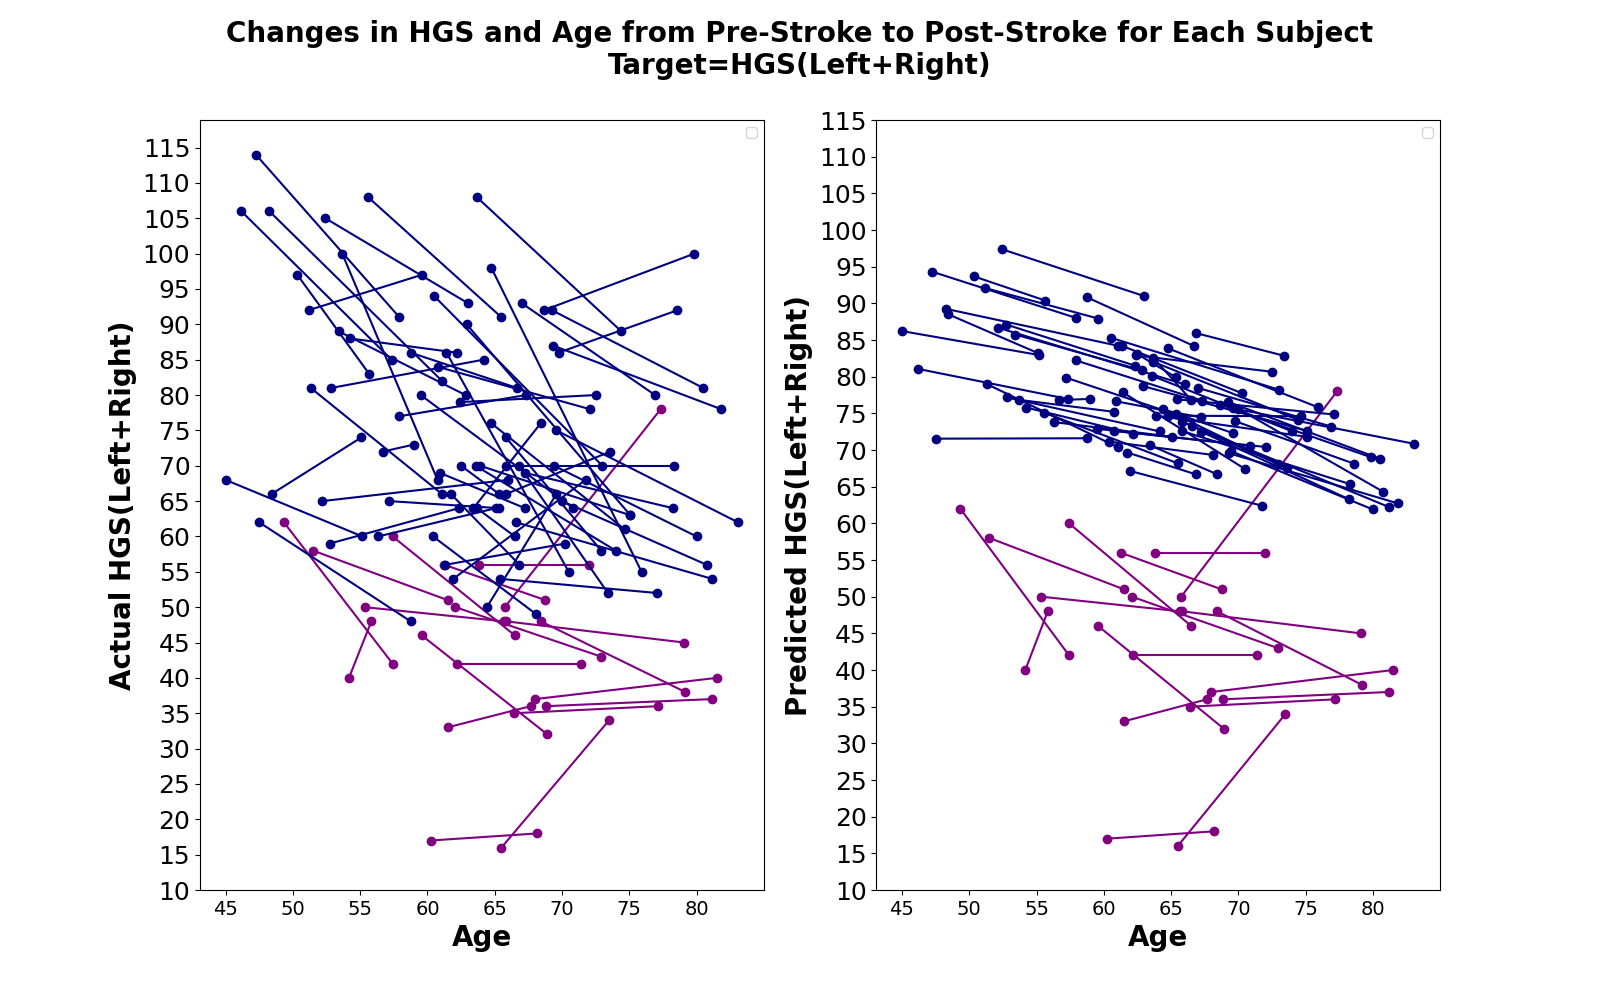
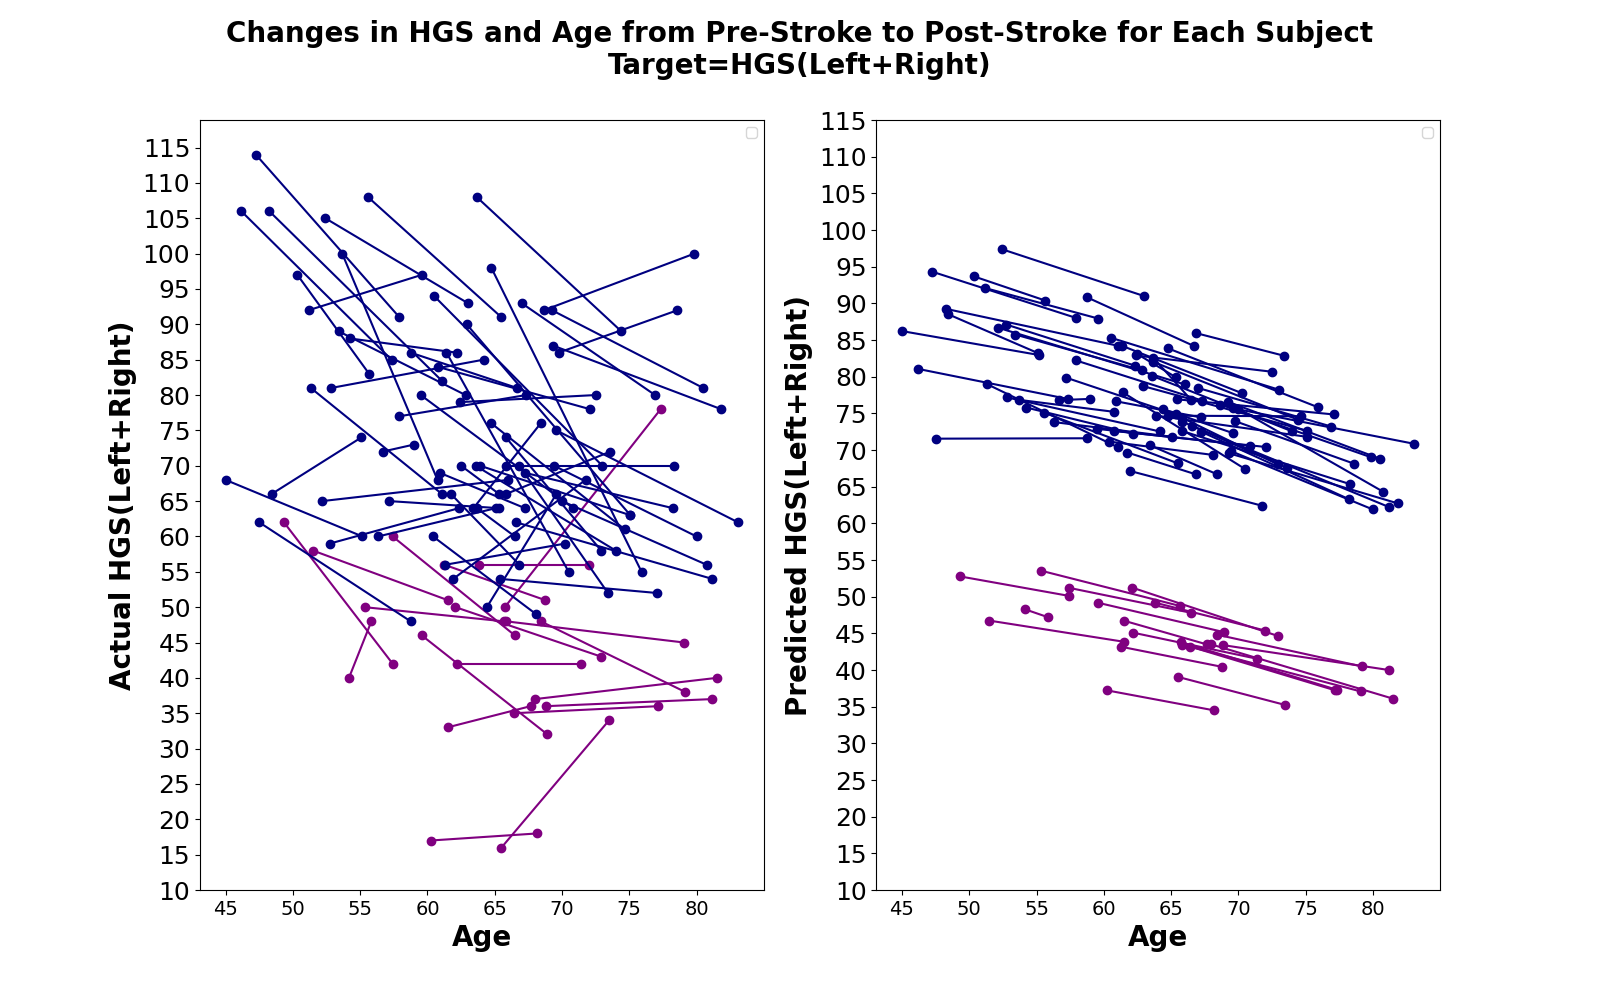
Created new plot for hgs vs age on stroke

Changed region(s): [[0.5938, 0.527, 0.875, 0.744], [0.7188, 0.806, 0.7812, 0.837]]

diff --git a/exec/plots/plot_data_distribution/stroke/hgs_data_distripution_boxplot/longitudinal_stroke/hgs_age.py b/exec/plots/plot_data_distribution/stroke/hgs_data_distripution_boxplot/longitudinal_stroke/hgs_age.py
@@ -48,7 +48,7 @@ for idx, row in df_male.iterrows():
     ax[0].plot(x_values, y_values, marker='o', color="#000080")
 for idx, row in df_female.iterrows():
     x_values = [row["1st_pre-stroke_age"], row["1st_post-stroke_age"]]
-    y_values = [row["1st_pre-stroke_hgs_L+R_actual"], row["1st_post-stroke_hgs_L+R_actual"]]
+    y_values = [row["1st_pre-stroke_hgs_L+R_predicted"], row["1st_post-stroke_hgs_L+R_predicted"]]
     ax[1].plot(x_values, y_values, marker='o', color="#800080")
 for idx, row in df_male.iterrows():
     x_values = [row["1st_pre-stroke_age"], row["1st_post-stroke_age"]]
@@ -81,7 +81,7 @@ ax[1].legend()
 
 # Show the plot
 plt.show()
-plt.savefig("hgs_age_predicted.png")
+plt.savefig("hgs_age.png")
 plt.close()
 
 print("===== Done! =====")
